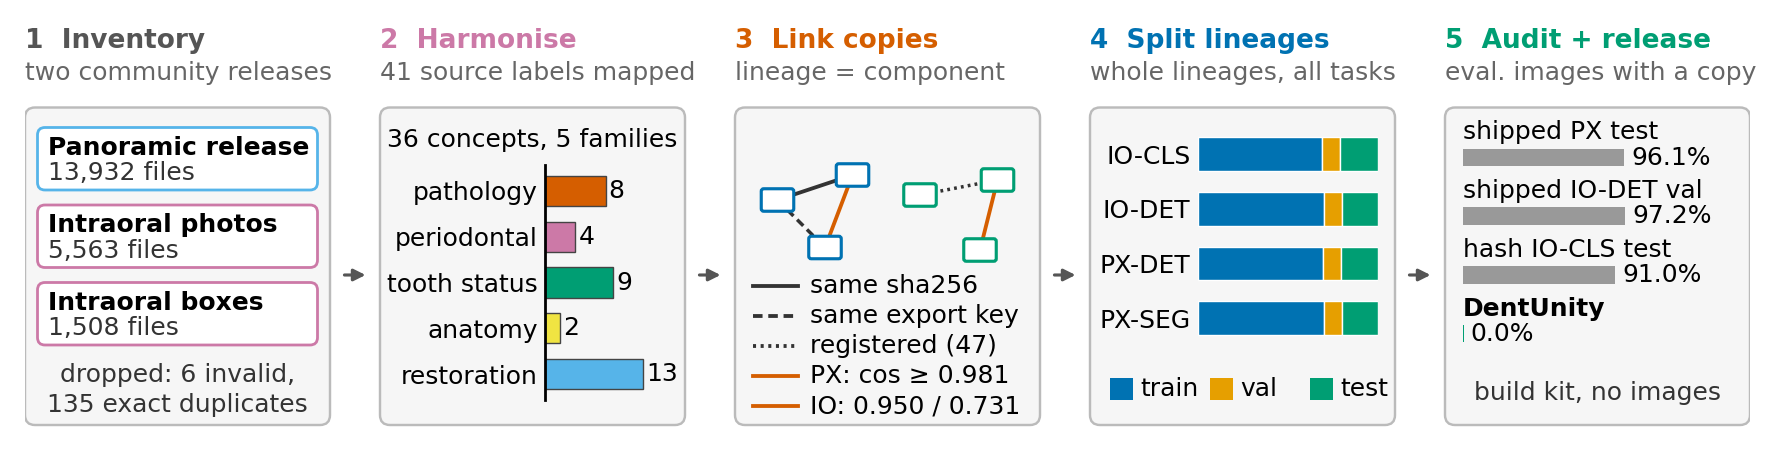
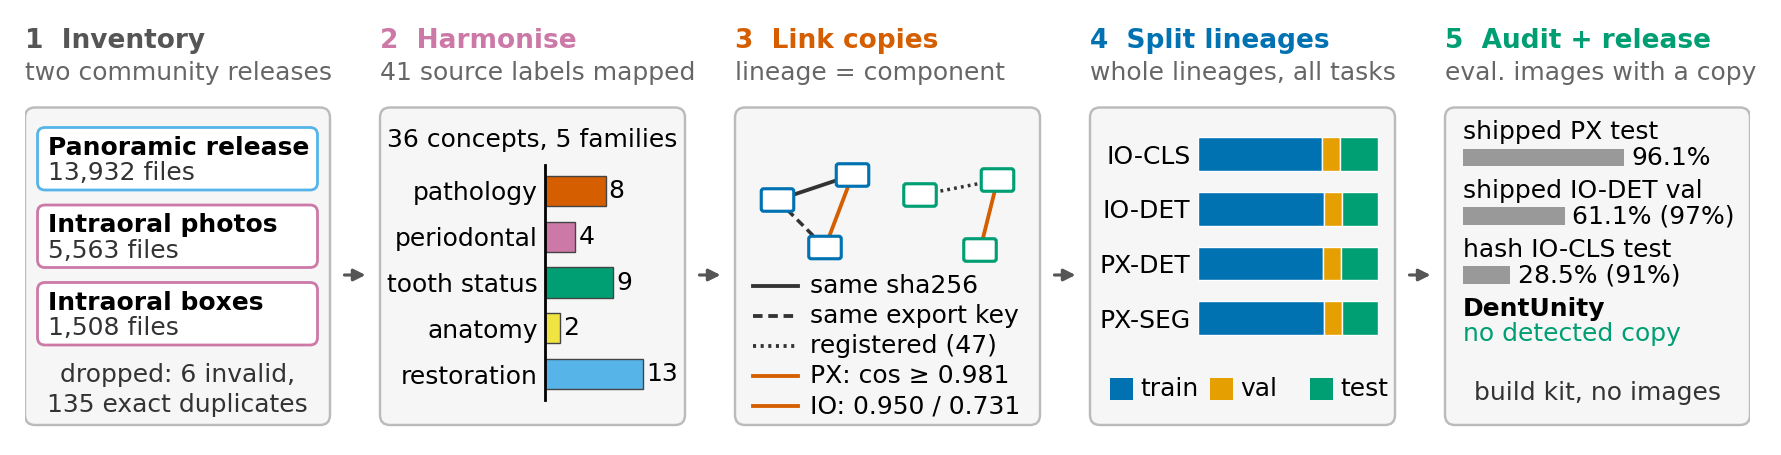
Strict-link audit and updated tables

Changed region(s): [[0.8029, 0.7077, 0.9573, 0.7692], [0.8338, 0.5846, 0.9573, 0.6462], [0.8647, 0.4308, 0.9882, 0.4923]]

diff --git a/scripts/make_tables.py b/scripts/make_tables.py
@@ -120,30 +120,37 @@ def pct(x):
 
 
 def tab_audit():
+    # round 7 (plan amendment 2026-11-17 09:32): every leak is shown under all links and under strict links
     A = J("dataset_stats.json")["audit"]
+    SL = J("strict_link_audit.json") if (R / "strict_link_audit.json").exists() else None
+    I = SL["intraoral_strict"] if SL else {}
+    PK = SL["panoramic_keys_only"] if SL else {}
     rows = [
-        ("Shipped panoramic split", "test vs train", A["px_shipped_test_share_with_train_lineage"]),
-        ("Shipped panoramic split", "val vs train", A["px_shipped_valid_share_with_train_lineage"]),
-        ("Shipped IO-DET split", "val vs train", A["io_det_shipped_val_share_with_train_lineage"]),
-        ("Hash-deduplicated IO-CLS split", "test vs train", A["io_cls_hash_split_test_share_with_train_lineage"]),
-        ("Per-task splits, cross-task", "IO-DET val vs IO-CLS train", A["io_det_shipped_val_share_with_cls_train_lineage"]),
-        ("Per-task splits, cross-task", "IO-CLS test vs IO-DET train", A["io_cls_test_share_with_shipped_det_train_lineage"]),
+        ("Shipped panoramic split", "test vs train", A["px_shipped_test_share_with_train_lineage"], PK.get("px_shipped_test_share_with_train_lineage")),
+        ("Shipped panoramic split", "val vs train", A["px_shipped_valid_share_with_train_lineage"], PK.get("px_shipped_valid_share_with_train_lineage")),
+        ("Shipped IO-DET split", "val vs train", A["io_det_shipped_val_share_with_train_lineage"], I.get("io_det_shipped_val_share_with_train_lineage")),
+        ("Hash-deduplicated IO-CLS split", "test vs train", A["io_cls_hash_split_test_share_with_train_lineage"], I.get("io_cls_hash_split_test_share_with_train_lineage")),
+        ("Per-task splits, cross-task", "IO-DET val vs IO-CLS train", A["io_det_shipped_val_share_with_cls_train_lineage"], I.get("io_det_shipped_val_share_with_cls_train_lineage")),
+        ("Per-task splits, cross-task", "IO-CLS test vs IO-DET train", A["io_cls_test_share_with_shipped_det_train_lineage"], I.get("io_cls_test_share_with_shipped_det_train_lineage")),
     ]
-    body = "\n".join(f"{a} & {b} & {pct(v)} \\\\" for a, b, v in rows)
+    sv = lambda v: "--" if v is None else pct(v)
+    body = "\n".join(f"{a} & {b} & {pct(v)} & {sv(w)} \\\\" for a, b, v, w in rows)
     ours = max(A["io_test_contamination"], A["io_val_contamination"], A["px_test_contamination"])
+    ours_s = max(I.get("dentunity_test_contamination", 0) or 0, I.get("dentunity_val_contamination", 0) or 0)
+    nd = lambda v: "none" if v == 0 else pct(v)
     tex = r"""\begin{table}[t]
 \centering\small
 \setlength{\tabcolsep}{3pt}
-\caption{\textbf{Split audit.} Share of evaluation images whose copy lineage also occurs in the training data, for the shipped and earlier splits and for \name.}
+\caption{\textbf{Split audit.} Share of evaluation images whose copy lineage also occurs in the training data. All: every link rule; strict: no recall edges (photographs) and no embedding edges (radiographs).}
 \label{tab:audit}
 \resizebox{\columnwidth}{!}{%
-\begin{tabular}{llr}
+\begin{tabular}{llrr}
 \toprule
-Split & Comparison & Leaked \\
+Split & Comparison & All & Strict \\
 \midrule
 """ + body + r"""
 \midrule
-\rowcolor{oursbg}\name, every task & val/test vs any train & """ + pct(ours) + r""" \\
+\rowcolor{oursbg}\name, every task & val/test vs any train & """ + nd(ours) + " & " + nd(ours_s) + r""" \\
 \bottomrule
 \end{tabular}}
 \end{table}
@@ -379,6 +386,9 @@ Model & val & test & """ + head + r""" \\
 """)
     runs = D.get("runs", {})
     tr = D.get("px_train_instances", {})
+    from dentunity.taxonomy import UNIFIED
+    PX2U = {c["sources"]["px"]: c for c in UNIFIED if "px" in c["sources"]}
+    PCT = J("split_class_stats.json")["px_det"]["per_concept"]
     cols = [("DET 11s s0", "pxdet_y11s_s0", "box"), ("DET 11s s1", "pxdet_y11s_s1", "box"),
             ("DET 11m s0", "pxdet_y11m_s0", "box"), ("DET 11n", "pxdet_y11n_s0", "box"),
             ("SEG 11s s0", "pxseg_y11s_s0", "mask"), ("SEG 11s s1", "pxseg_y11s_s1", "mask"),
@@ -398,10 +408,12 @@ Model & val & test & """ + head + r""" \\
         for _, rn, kind in cols:
             v = runs.get(rn, {}).get("test", {}).get(kind, {}).get("per_class_ap50")
             cells.append("XX" if v is None else (f1(v[c]) if c in v else "--"))
-        lines.append(f"{c.replace('_', ' ')} & {_fmt(tr.get(c, 0))} & " + " & ".join(cells) + " \\\\")
+        cpt = PX2U.get(c, {}).get("name")
+        lowc = cpt in PCT and PCT[cpt]["test"] < 10           # review fix: low-support mark, as in Tabs. J.2-J.5
+        lines.append(f"{c.replace('_', ' ')}{'$^\\dagger$' if lowc else ''} & {_fmt(tr.get(c, 0))} & " + " & ".join(cells) + " \\\\")
     t2 = (r"""\begin{table*}[t]
 \centering\scriptsize
-\caption{\textbf{Panoramic per-class test AP$_{50}$} (\%), classes sorted by PX-DET training instances (n). Classes are the source labels. DET: PX-DET boxes, SEG: PX-SEG masks, 11n/11s/11m: YOLO11 sizes, +D1: with re-exports, s0/s1: seeds. --: class absent from that test split.}
+\caption{\textbf{Panoramic per-class test AP$_{50}$} (\%), classes sorted by PX-DET training instances (n). Classes are the source labels. DET: PX-DET boxes, SEG: PX-SEG masks, 11n/11s/11m: YOLO11 sizes, +D1: with re-exports, s0/s1: seeds. --: class absent from that test split. $^\dagger$Fewer than 10 PX-DET test boxes (low support).}
 \label{tab:supp_px}
 \setlength{\tabcolsep}{3pt}
 \resizebox{\textwidth}{!}{%
@@ -895,8 +907,10 @@ def numbers():
         dput(T + "SizeGain", e_s and e_s.get(f"test_{kind}_map50_95_mean"), e_n and e_n.get(f"test_{kind}_map50_95_mean"), signed=True)
         e_m = G.get(f"{task}_y11m")
         put(T + "Medium", e_m and e_m.get(f"test_{kind}_map50_95_mean"))
+        put(T + "Planned", e_s and e_s.get(f"test_{kind}_map50_95_mean"))      # round 7: planned YOLO11s beside post-plan YOLO11m
+        mac[T + "PlannedSeeds"] = str(e_s.get("n_seeds", "XX")) if e_s else "XX"
     L1 = D.get("L1_swap", {})
-    put("leakAbs", L1.get("map50_95_diff_mean"), nd=2); put("leakRel", L1.get("map50_95_rel_gain_mean"))
+    put("leakAbs", L1.get("map50_95_diff_mean"), nd=2); put("leakAbsShort", L1.get("map50_95_diff_mean"), nd=1); put("leakRel", L1.get("map50_95_rel_gain_mean"))
     put("leakClean", np.mean(L1["map50_95_clean"]) if L1.get("map50_95_clean") else None, nd=2)
     put("leakLeaky", np.mean(L1["map50_95_leaky"]) if L1.get("map50_95_leaky") else None, nd=2)
     mac["leakSeeds"] = str(len(L1.get("map50_95", []))) if L1 else "XX"
@@ -945,6 +959,18 @@ if __name__ == "__main__":
     supp_dentex()
     supp_tail()
     numbers()
+    # round 6: main-paper floats point into the supplement with static text (\suppref, see paper/make_supprefs.py),
+    # because Overleaf compiles main.tex without the supplement's .aux
+    import re as _re
+    _aux = OUT.parent / "supplementary.aux"
+    _lab = set(_re.findall(r"\\newlabel\{([^}@]+)@cref\}", _aux.read_text(errors="ignore"))) if _aux.exists() else set()
+    def _conv(m):
+        ks = [k.strip() for k in m.group(2).split(",")]
+        if _lab and all(k in _lab for k in ks):
+            return ("\\Suppref{" if m.group(1) == "C" else "\\suppref{") + m.group(2) + "}"
+        return m.group(0)
+    for f in OUT.glob("tab_*.tex"):
+        f.write_text(_re.sub(r"\\([cC])ref\{([^}]+)\}", _conv, f.read_text()))
     for f in SUPP.glob("tab_supp_*.tex"):             # appendix column tables may sit in the text (QA 2026-11-16)
         f.write_text(f.read_text().replace("\\begin{table}[t]", "\\begin{table}[!htbp]"))
     for old in ("tab_leak.tex", "tab_sota.tex"):          # moved to the supplement (Fig. 6 carries the main-paper view)

diff --git a/scripts/strict_link_audit.py b/scripts/strict_link_audit.py
@@ -1,0 +1,110 @@
+"""Strict-link re-audit (plan amendment 2026-11-17 09:32), CPU only, no training.
+
+Intraoral: rebuild the copy graph over IO-CLS + IO-DET images from the cached link embeddings
+with strict links only, i.e. identical sha256 and mutual nearest neighbours above the 0.950
+precision threshold. The 0.731 recall edges and the cached preliminary IO-CLS graph are not used.
+Every intraoral leak figure of the audit is recomputed under this graph, next to the value under
+all links (results/dataset_stats.json). Panoramic: the shipped-split leak is recomputed with
+export keys, sha256 and registration only (no embedding edges).
+
+  nice -n 10 python3 scripts/strict_link_audit.py   ->  results/strict_link_audit.json
+"""
+import json
+import sys
+from collections import Counter
+from pathlib import Path
+
+import numpy as np
+
+R = Path(__file__).resolve().parents[1]
+sys.path.insert(0, str(R))
+from dentunity.common import DATA, FEAT_ROOT, PANO_PAIRS, RESULTS, read_json, write_json  # noqa: E402
+from dentunity.lineage import components, key_edges, mutual_knn_edges, size_gated_edges  # noqa: E402
+from dentunity.splits import contamination  # noqa: E402
+
+
+def emb(group):
+    z = np.load(DATA / f"linkemb_{group}.npz")
+    return z["E"].astype(np.float32), [str(p) for p in z["paths"]]
+
+
+def intraoral(A):
+    b = read_json(DATA / "bench.json")
+    cls, det = b["io_cls"], b["io_det"]                    # released images, in build order
+    lin = read_json(FEAT_ROOT / "results/lineage_intraoral.json")
+    tau_hi = lin["tau_precision_first_null999"]
+    z = np.load(FEAT_ROOT / "data/compact/intraoral_linkemb.npz")
+    comp = np.load(FEAT_ROOT / "data/compact/intraoral_vits14.npz")
+    kind = json.loads(str(comp["extra"]))["kind"]
+    orig = [str(p) for p, k in zip(comp["paths"], kind) if k == "orig"]
+    pos = {p: i for i, p in enumerate(orig)}
+    Ec = z["E"][[pos[r["path"]] for r in cls]].astype(np.float32)
+    Ed_all, pd_ = emb("io_det")
+    Ed = Ed_all[[pd_.index(r["path"]) for r in det]]
+    nC, nD = len(cls), len(det)
+    E = np.concatenate([Ec, Ed])
+    lab = components(nC + nD, [key_edges([r["sha256"] for r in cls + det]), mutual_knn_edges(E, tau_hi, k=3)])
+    # reproduction check: the all-links graph of dentunity/build.py must give the published values
+    sizes = [(r["width"], r["height"]) for r in cls + det]
+    e_new = [e for e in mutual_knn_edges(E, tau_hi, k=3) + size_gated_edges(E, sizes, lin["tau_split"], k=10)
+             if max(e[0], e[1]) >= nC]
+    lab_all = components(nC + nD, [key_edges([r["lineage_src"] for r in cls]),
+                                   key_edges([r["sha256"] for r in cls + det]), e_new])
+    det_inv = {r["path"]: r for r in read_json(DATA / "inv_io_det.json")}
+    shipped = [det_inv[r["path"]]["shipped_split"] for r in det]
+    old = read_json(FEAT_ROOT / "results/splits_cls.json")
+    osp = {r["path"]: k for k, v in old["splits"].items() for r in v}
+    out = {"tau_precision": tau_hi, "edges": "sha256 + mutual 3-NN above the precision threshold",
+           "lineages": int(len(set(lab.tolist()))),
+           "largest_lineage": int(max(Counter(lab.tolist()).values())),
+           "io_cls_hash_split_test_share_with_train_lineage": contamination([osp[r["path"]] for r in cls], lab[:nC].tolist()),
+           "io_det_shipped_val_share_with_train_lineage": contamination(shipped, lab[nC:].tolist(), ("val",), ("train",))}
+    indep = [osp_cached for osp_cached in [r.get("split_src") for r in cls]] + \
+            ["train" if s == "train" else "test" for s in shipped]
+    te_det = [i for i in range(nC, nC + nD) if indep[i] == "test"]
+    tr_cls = {int(lab[i]) for i in range(nC) if indep[i] == "train"}
+    out["io_det_shipped_val_share_with_cls_train_lineage"] = float(np.mean([int(lab[i]) in tr_cls for i in te_det]))
+    te_cls = [i for i in range(nC) if indep[i] == "test"]
+    tr_det = {int(lab[i]) for i in range(nC, nC + nD) if indep[i] == "train"}
+    out["io_cls_test_share_with_shipped_det_train_lineage"] = float(np.mean([int(lab[i]) in tr_det for i in te_cls]))
+    ours = [r["split"] for r in cls + det]
+    out["dentunity_test_contamination"] = contamination(ours, lab.tolist())
+    out["dentunity_val_contamination"] = contamination(ours, lab.tolist(), ("val",))
+    out["all_links"] = {k: A[k] for k in ("io_cls_hash_split_test_share_with_train_lineage",
+                                          "io_det_shipped_val_share_with_train_lineage",
+                                          "io_det_shipped_val_share_with_cls_train_lineage",
+                                          "io_cls_test_share_with_shipped_det_train_lineage",
+                                          "io_test_contamination", "io_val_contamination")}
+    out["all_links"]["largest_lineage"] = A["io_largest_component"]
+    out["all_links"]["lineages"] = A["io_components"]
+    out["reproduction_all_links_hash_test_leak"] = contamination([osp[r["path"]] for r in cls], lab_all[:nC].tolist())
+    out["reproduction_all_links_largest"] = int(max(Counter(lab_all.tolist()).values()))
+    return out
+
+
+def panoramic(A):
+    px = read_json(DATA / "inv_px.json")
+    by_sha = {}
+    for i, r in enumerate(px):
+        by_sha.setdefault(r["sha256"], i)
+    reg = [(by_sha[p["left"]], by_sha[p["right"]]) for p in read_json(PANO_PAIRS)
+           if p["left"] in by_sha and p["right"] in by_sha]
+    base = components(len(px), [key_edges([r["source_key"] for r in px]), key_edges([r["sha256"] for r in px]), reg])
+    shipped = [r["shipped_split"] for r in px]
+    return {"edges": "export key + sha256 + registration (no embedding edges)",
+            "px_shipped_test_share_with_train_lineage": contamination(shipped, base.tolist(), ("test",), ("train",)),
+            "px_shipped_valid_share_with_train_lineage": contamination(shipped, base.tolist(), ("valid",), ("train",)),
+            "all_links": {"px_shipped_test_share_with_train_lineage": A["px_shipped_test_share_with_train_lineage"],
+                          "px_shipped_valid_share_with_train_lineage": A["px_shipped_valid_share_with_train_lineage"]}}
+
+
+def main():
+    A = read_json(RESULTS / "dataset_stats.json")["audit"]
+    out = {"provenance": "run (scripts/strict_link_audit.py; plan amendment 2026-11-17 09:32)",
+           "intraoral_strict": intraoral(A), "panoramic_keys_only": panoramic(A)}
+    write_json(RESULTS / "strict_link_audit.json", out)
+    print(json.dumps(out, indent=1))
+
+
+if __name__ == "__main__":
+    main()

diff --git a/scripts/make_figures.py b/scripts/make_figures.py
@@ -198,17 +198,23 @@ def fig_pipeline():
 
     # 5 Audit + release: leaked share of evaluation images
     ax, r = card(fig, xs[4], w, top, H, 5, "Audit + release", "eval. images with a copy", cols[4])
-    rows = [("shipped PX test", A["px_shipped_test_share_with_train_lineage"]),
-            ("shipped IO-DET val", A["io_det_shipped_val_share_with_train_lineage"]),
-            ("hash IO-CLS test", A["io_cls_hash_split_test_share_with_train_lineage"]),
-            ("DentUnity", max(A["px_test_contamination"], A["io_test_contamination"]))]
-    for i, (lab, v) in enumerate(rows):
+    # round 7: intraoral bars show the strict-link share (conservative); all links in brackets
+    SL = J("strict_link_audit.json")["intraoral_strict"]
+    rows = [("shipped PX test", A["px_shipped_test_share_with_train_lineage"], None),
+            ("shipped IO-DET val", SL["io_det_shipped_val_share_with_train_lineage"], A["io_det_shipped_val_share_with_train_lineage"]),
+            ("hash IO-CLS test", SL["io_cls_hash_split_test_share_with_train_lineage"], A["io_cls_hash_split_test_share_with_train_lineage"]),
+            ("DentUnity", max(A["px_test_contamination"], A["io_test_contamination"]), None)]
+    for i, (lab, v, vall) in enumerate(rows):
         y0 = r[1] + r[3] - 0.17 - i * 0.235
         ax.text(r[0] + 0.07, y0 + 0.07, lab, ha="left", fontweight="bold" if i == 3 else "normal", **tx)
         bw = (r[2] - 0.55) * v
-        ax.add_patch(plt.Rectangle((r[0] + 0.07, y0 - 0.065), max(bw, 0.004), 0.07,
-                                   fc="#009E73" if i == 3 else "#999999", ec="none"))
-        ax.text(r[0] + 0.1 + bw, y0 - 0.03, f"{100 * v:.1f}%", ha="left", **tx)
+        if i == 3:      # round 5: our splits are reported as copy-lineage-disjoint, not as a 0% figure
+            assert v == 0.0
+            ax.text(r[0] + 0.07, y0 - 0.03, "no detected copy", ha="left", color="#009E73", **tx)
+            continue
+        ax.add_patch(plt.Rectangle((r[0] + 0.07, y0 - 0.065), max(bw, 0.004), 0.07, fc="#999999", ec="none"))
+        ax.text(r[0] + 0.1 + bw, y0 - 0.03, f"{100 * v:.1f}%" + (f" ({100 * vall:.0f}%)" if vall is not None else ""),
+                ha="left", **tx)
     ax.text(r[0] + r[2] / 2, r[1] + 0.13, "build kit, no images", ha="center", color="#333333", **tx)
 
     # arrows between stages

diff --git a/scripts/make_appendix_tables.py b/scripts/make_appendix_tables.py
@@ -334,6 +334,14 @@ def short(rn):
     return r.replace("y11", "11").replace("_s", " s").replace("reexp", "D1").replace("_", " ")
 
 
+
+LOW_N = 10       # review fix (2026-11-16): classes with fewer PX-DET evaluation boxes are marked as low support
+
+
+def low(concept, split="test"):
+    pc = J("split_class_stats.json")["px_det"]["per_concept"]
+    return concept in pc and pc[concept]["val" if split != "test" else "test"] < LOW_N
+
 def px_ap5095(split="test"):
     runs = _runs()
     tr = J("summary_det.json")["px_train_instances"]
@@ -350,13 +358,14 @@ def px_ap5095(split="test"):
                 cells.append(f1(v[c]) if c in v else "--")
             if all(x == "--" for x in cells):
                 continue
-            lines.append(f"{PX2U[c]['name']} & {FAMS[PX2U[c]['family']]} & {n(tr.get(c, 0))} & " + " & ".join(cells) + " \\\\")
+            nm = PX2U[c]['name'] + ("$^\\dagger$" if low(PX2U[c]['name'], split) else "")
+            lines.append(f"{nm} & {FAMS[PX2U[c]['family']]} & {n(tr.get(c, 0))} & " + " & ".join(cells) + " \\\\")
         word = "test" if split == "test" else "validation"
         env = "table*" if len(cols) > 4 else "table"     # more runs than fit one column -> full width
         write(f"tab_app_{task}{sp}_ap.tex", r"""\begin{""" + env + r"""}[t]
 \centering\scriptsize
 \setlength{\tabcolsep}{2.5pt}
-\caption{\textbf{""" + lab + " " + word + r""" AP$_{50:95}$ per class} (\%) for every run (11n/11s/11m: YOLO11 size, s0/s1: seed), sorted by PX-DET training instances (n). Classes absent from the """ + word + r""" split are omitted.}
+\caption{\textbf{""" + lab + " " + word + r""" AP$_{50:95}$ per class} (\%) for every run (11n/11s/11m: YOLO11 size, s0/s1: seed), sorted by PX-DET training instances (n). Classes absent from the """ + word + r""" split are omitted. $^\dagger$Low support: fewer than """ + str(LOW_N) + " PX-DET " + word + r""" boxes, so the AP is unstable.}
 \label{tab:app_""" + task + sp + r"""_ap}
 \resizebox{\columnwidth}{!}{%
 \begin{tabular}{llr""" + "c" * len(cols) + r"""}

diff --git a/scripts/label_conflicts.py b/scripts/label_conflicts.py
@@ -1,0 +1,23 @@
+"""Label conflicts among exact copies in the IO-DET source (a lower bound on label noise).
+Reads the local inventory (data/inv_io_det.json) and writes results/label_conflicts.json.
+  python3 scripts/label_conflicts.py
+"""
+import json
+from collections import defaultdict
+from pathlib import Path
+
+R = Path(__file__).resolve().parents[1]
+inv = json.loads((R / "data" / "inv_io_det.json").read_text())
+by = defaultdict(list)
+for r in inv:
+    by[r["sha256"]].append(r)
+groups = [v for v in by.values() if len(v) > 1]
+key = lambda r: sorted((b[0], *(round(x, 4) for x in b[1:])) for b in r["boxes_cxcywh"])
+conflict = [g for g in groups if len({json.dumps(key(r)) for r in g}) > 1]
+out = {"provenance": "run (scripts/label_conflicts.py over data/inv_io_det.json)",
+       "io_det_files": len(inv), "io_det_exact_duplicate_groups": len(groups),
+       "io_det_exact_duplicate_files_removed": sum(len(g) - 1 for g in groups),
+       "io_det_duplicate_groups_with_conflicting_boxes": len(conflict),
+       "conflicting_share_of_duplicate_groups": len(conflict) / len(groups) if groups else None}
+(R / "results" / "label_conflicts.json").write_text(json.dumps(out, indent=1))
+print(json.dumps(out))
